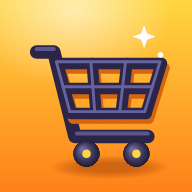
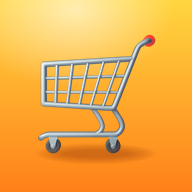
앱 아이콘을 페이지 상단 카트(Noto 3D 이모지)로 변경

diff --git a/sw.js b/sw.js
@@ -1,6 +1,6 @@
 // 휴대폰 웹앱용 서비스 워커: 앱 설치를 가능하게 하고, 인터넷이 끊겨도 화면이 열리게 해요.
 // (크롬 확장 프로그램에서는 쓰이지 않아요)
-const CACHE = "rangi-v4";
+const CACHE = "rangi-v5";
 const FILES = ["generator.html", "app.webmanifest", "icons/icon-192.png", "icons/icon-512.png"];
 
 self.addEventListener("install", (e) => {
